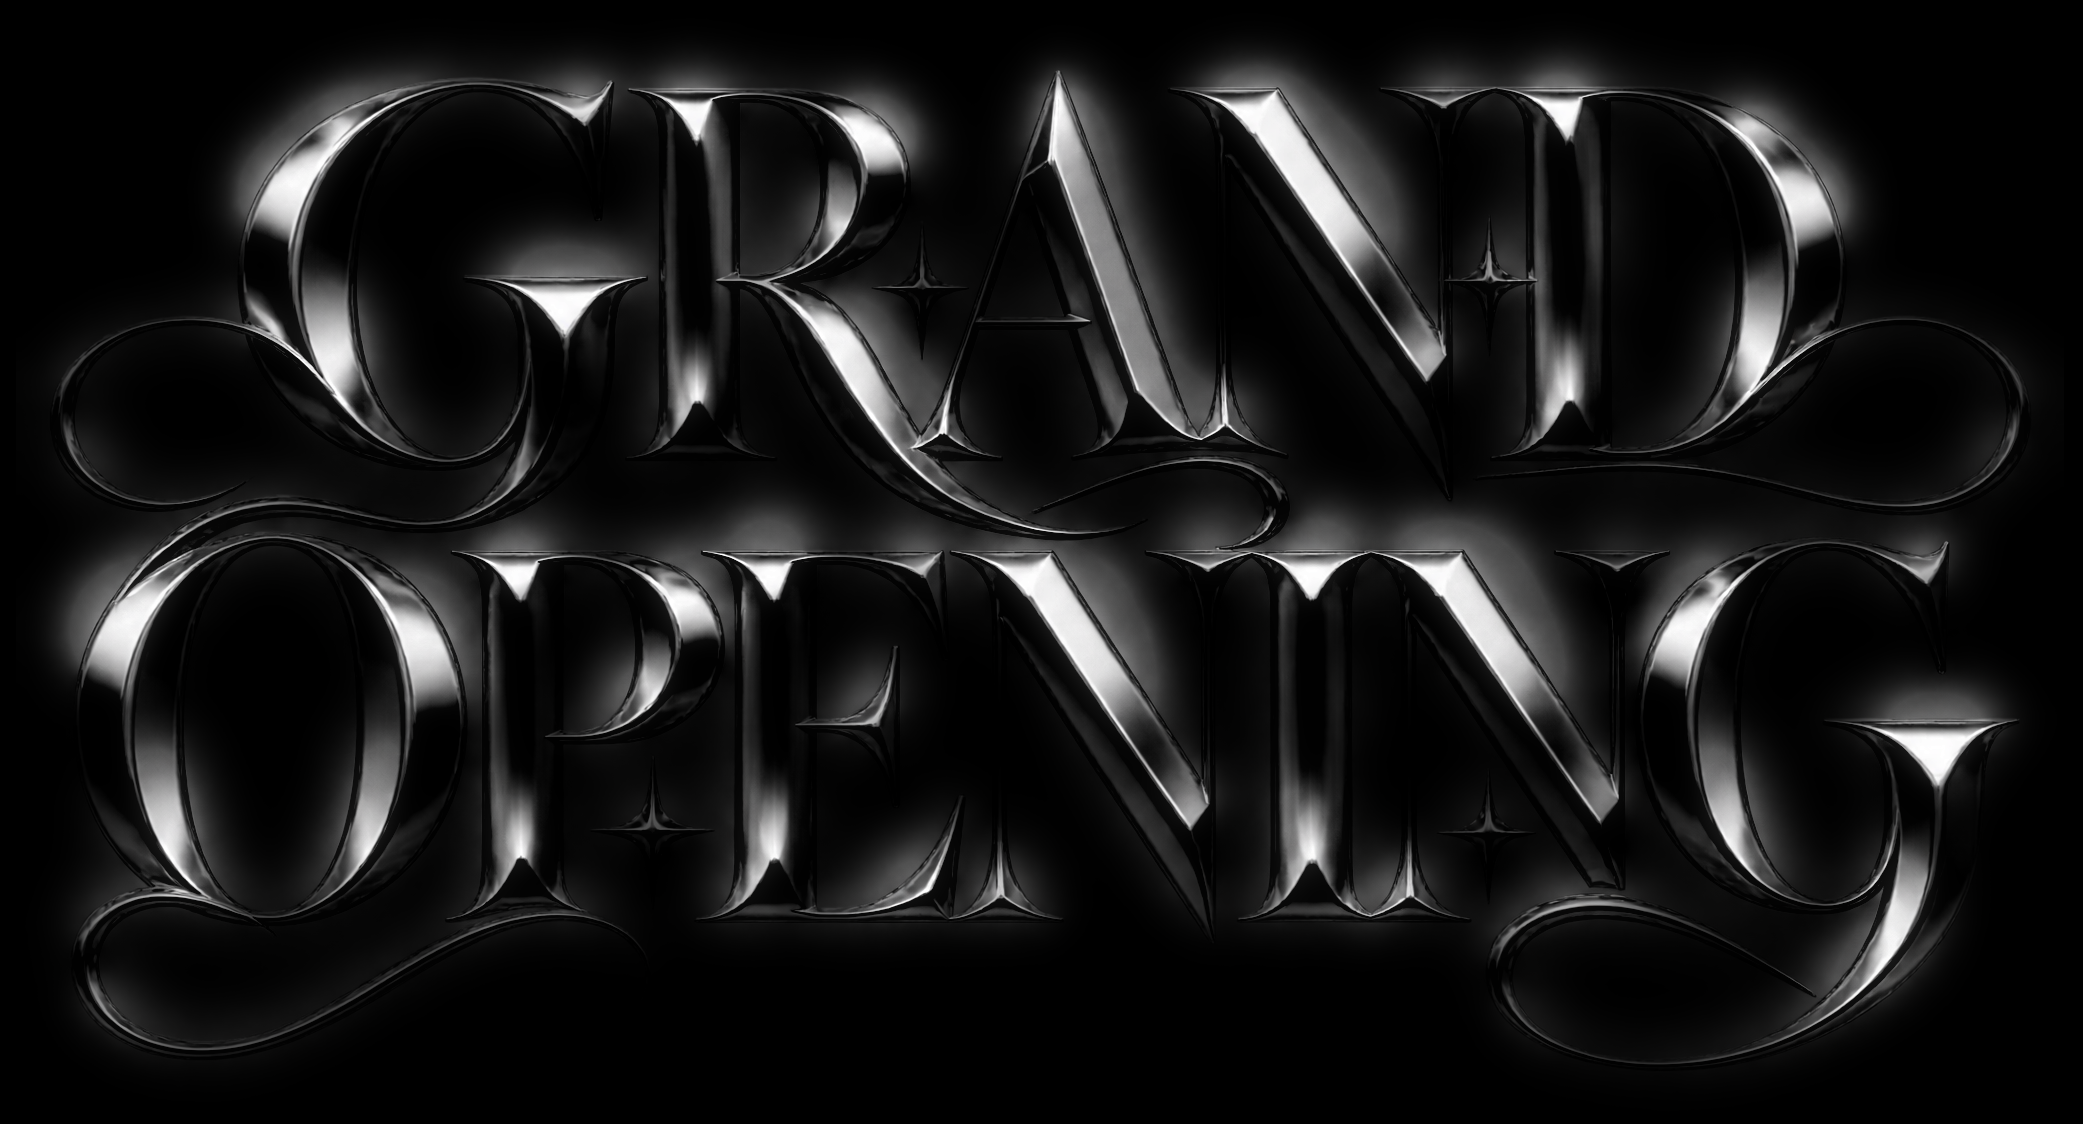
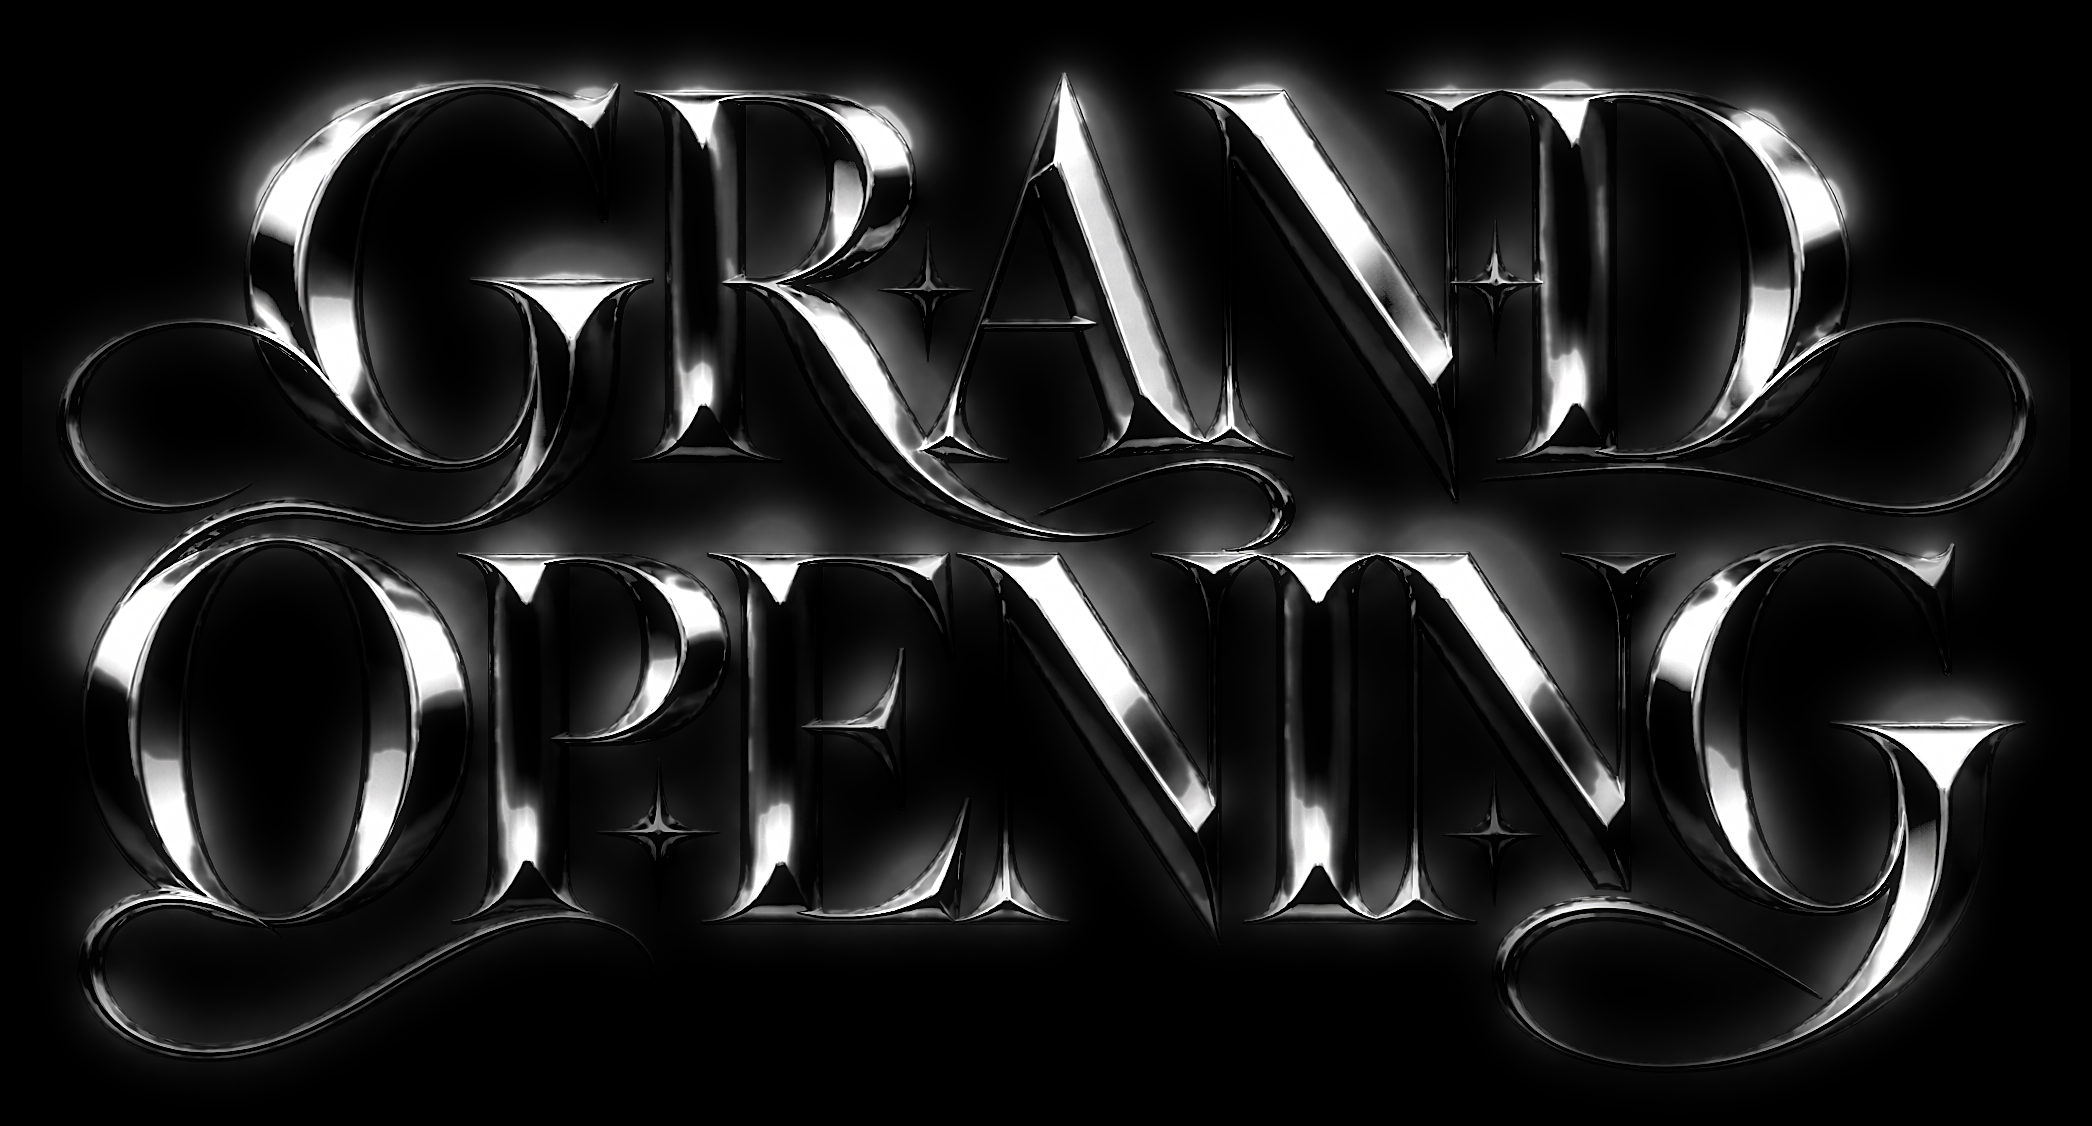
feat: brighten and sharpen title B (letters only) on the Noir flyer
screen_sig.py takes optional gamma/gain; brightening applied through a letter
mask so the surrounding glow is untouched.

Claude-Session: https://claude.ai/code/session_01Jzo4FDijrzXxhRLfmJNhGR

diff --git a/kova-mono/build/screen_sig.py b/kova-mono/build/screen_sig.py
@@ -8,19 +8,38 @@ from PIL import Image
 from scipy import ndimage as ndi
 
 src, out = sys.argv[1], sys.argv[2]
+GAMMA = float(sys.argv[3]) if len(sys.argv) > 3 else 1.05      # <1 lifts dark chrome (used for the darker title B)
+GAIN = float(sys.argv[4]) if len(sys.argv) > 4 else 1.0
 im = np.asarray(Image.open(src).convert('RGB')).astype(float) / 255
 L = im.mean(2); h, w = L.shape
 q = 4
 bg = ndi.median_filter(L[::q, ::q], size=31)
 bg = ndi.zoom(ndi.gaussian_filter(bg, 2), q, order=1)[:h, :w]
 t = np.clip(bg * .82, 0, .9)                              # local black point: below the glow, so chrome keeps its body; leftover glow stays soft
-v = np.clip((L - t) / (1 - t), 0, 1) ** 1.05
+v0 = np.clip((L - t) / (1 - t), 0, 1)
+v = v0 ** 1.05
+if GAMMA != 1.05 or GAIN != 1.0:
+    # brighten the LETTERS only: soft mask of pixels that differ from the glow (chrome both
+    # bright and dark), gaps inside strokes filled, so the glow around them is untouched
+    lm = np.abs(L - bg) > .14
+    lm = ndi.binary_closing(lm, np.ones((5, 5)))
+    lab, n = ndi.label(lm); sz = ndi.sum(lm, lab, range(1, n + 1))
+    lm = np.isin(lab, 1 + np.where(sz > 400)[0])
+    holes = ndi.binary_fill_holes(lm) & ~lm
+    hl, hn = ndi.label(holes); hs = ndi.sum(holes, hl, range(1, hn + 1))
+    lm |= np.isin(hl, 1 + np.where(hs < 5000)[0])
+    w = np.clip(ndi.gaussian_filter(ndi.binary_erosion(lm, iterations=2).astype(float), 2.0) * 1.3, 0, 1)
+    vb = np.clip(v0 ** GAMMA * GAIN, 0, 1)
+    v = v * (1 - w) + vb * w
 rgb = im * (v / np.maximum(L, 1e-4))[..., None]
 halo = ndi.gaussian_filter(v, 14) * .22                    # tight soft glow from the chrome itself
 rgb = 1 - (1 - rgb) * (1 - halo[..., None])                # screen the halo in
 # fade whatever glow is left to black away from the letters, so the image has no box edge
 near = ndi.gaussian_filter((v > .25).astype(float), 30)
 rgb = rgb * np.clip(near * 3.2, 0, 1)[..., None]
+if GAMMA < 1:                                          # crisp edges for readability: unsharp mask on the letters only
+    blur = ndi.gaussian_filter(rgb, (1.6, 1.6, 0))
+    rgb = rgb + (rgb - blur) * .8 * w[..., None]
 img = Image.fromarray((rgb.clip(0, 1) * 255).astype(np.uint8))
 bb = img.convert('L').point(lambda x: 255 if x > 40 else 0).getbbox()
 pad = 60
